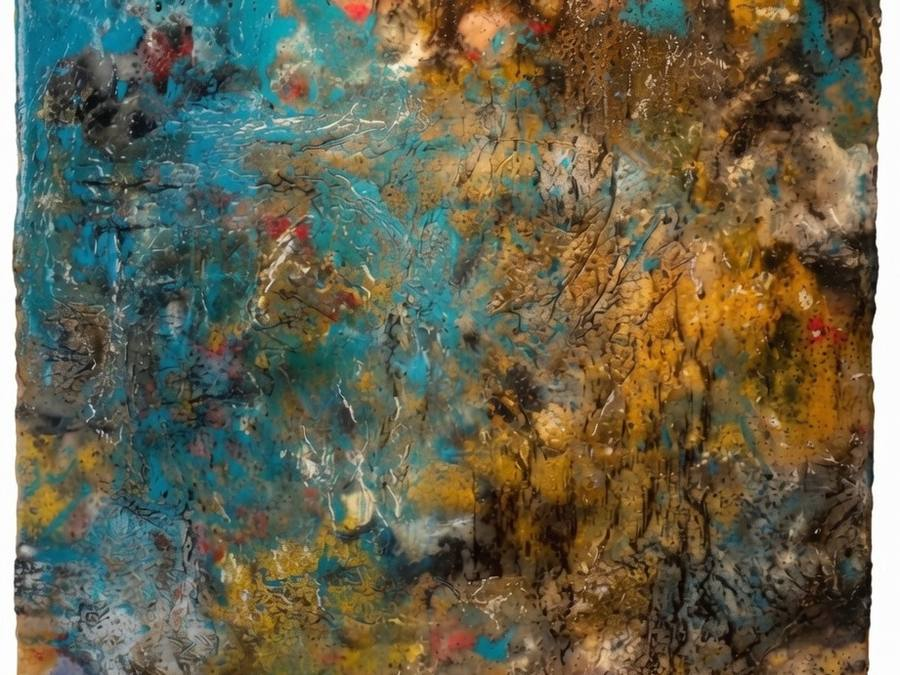
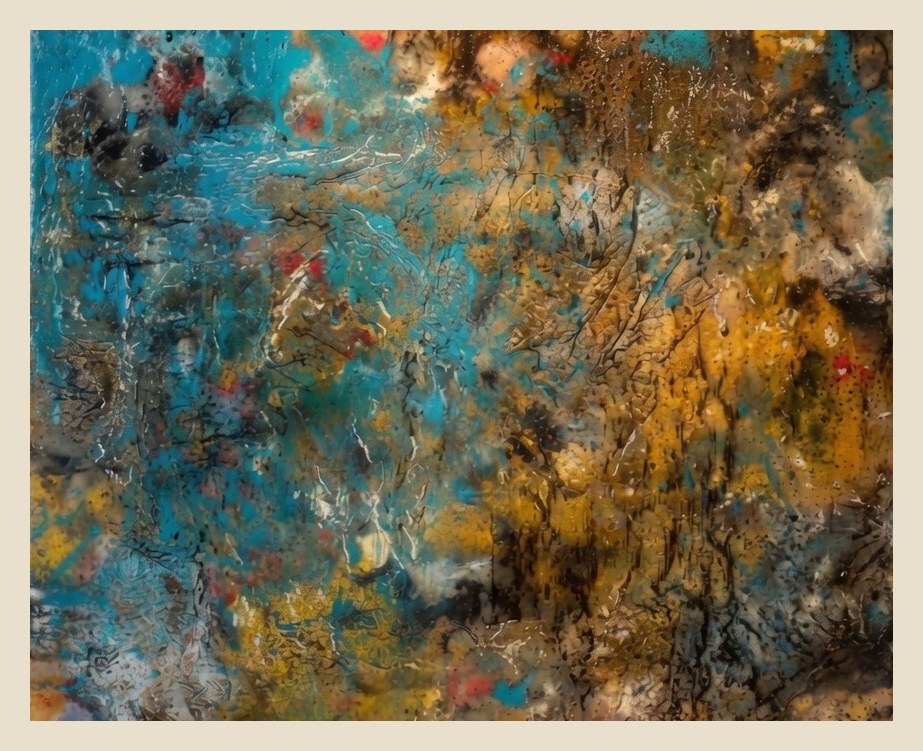
Add files via upload

diff --git a/paintings.html b/paintings.html
@@ -76,6 +76,13 @@ h1.page-title span{color:var(--red)}
 .paint-title{position:relative}
 .share-btn{font-family:var(--vt);letter-spacing:.08em;background:none;border:1px solid var(--muted);color:var(--muted);cursor:pointer;padding:.15rem .5rem;font-size:.85rem;margin-left:.5rem;vertical-align:middle;transition:background .15s,color .15s}
 .share-btn:hover{background:var(--ink);color:var(--paper);border-color:var(--ink)}
+.share-menu{display:inline-block;position:relative}
+.share-menu summary{list-style:none}
+.share-menu summary::-webkit-details-marker{display:none}
+.share-options{background:var(--paper);border:2px solid var(--ink);box-shadow:3px 3px 0 var(--ink);flex-direction:column;z-index:50;min-width:140px;padding:.4rem;display:flex;position:absolute;top:calc(100% + 6px);left:0}
+.share-options a{font-family:var(--elite);color:var(--ink);letter-spacing:.03em;border-bottom:1px dashed #1c181026;padding:.4rem .5rem;font-size:.78rem;transition:color .15s;display:block}
+.share-options a:last-child{border-bottom:none}
+.share-options a:hover{color:var(--red)}
 .buy-block{border-top:1px dashed #1c181040;padding-top:1rem}
 .buy-row{justify-content:space-between;align-items:center;gap:.75rem;display:flex;margin-bottom:.6rem}
 .buy-row:last-child{margin-bottom:0}
@@ -145,7 +152,7 @@ footer{background:var(--ink);color:var(--paper);border-top:4px solid var(--red);
   </div>
   <div class="paint-body">
     <div class="paint-title">Quiet Circuitry</div>
-    <button class="share-btn" onclick="sharePainting('1','Quiet Circuitry')" aria-label="Share Quiet Circuitry">Share &#8599;</button>
+    <details class="share-menu"><summary class="share-btn">Share &#8599;</summary><div class="share-options"><a href="https://twitter.com/intent/tweet?text=Quiet%20Circuitry%20-%20encaustic%20wax%20%26%20mixed%20media%20by%20Sundara%20Heart&url=https%3A//sundaraheart.com/paintings.html%23painting-1" target="_blank" rel="noopener">X / Twitter</a><a href="https://www.facebook.com/sharer/sharer.php?u=https%3A//sundaraheart.com/paintings.html%23painting-1" target="_blank" rel="noopener">Facebook</a><a href="https://pinterest.com/pin/create/button/?url=https%3A//sundaraheart.com/paintings.html%23painting-1&media=https%3A//sundaraheart.com/quiet-circuitry.jpg&description=Quiet%20Circuitry%20-%20encaustic%20wax%20%26%20mixed%20media%20by%20Sundara%20Heart" target="_blank" rel="noopener">Pinterest</a><a href="mailto:?subject=Quiet%20Circuitry%20-%20encaustic%20wax%20%26%20mixed%20media%20by%20Sundara%20Heart&body=Quiet%20Circuitry%20-%20encaustic%20wax%20%26%20mixed%20media%20by%20Sundara%20Heart%20https%3A//sundaraheart.com/paintings.html%23painting-1">Email</a></div></details>
     <div class="paint-meta">Encaustic Wax &amp; Mixed Media on Wood · [WxH]"</div>
     <p class="paint-desc">[One or two lines on this piece - what it's made of, what it's about, where it came from.]</p>
     <div class="buy-block">
@@ -175,7 +182,7 @@ footer{background:var(--ink);color:var(--paper);border-top:4px solid var(--red);
   </div>
   <div class="paint-body">
     <div class="paint-title">Ember Archive</div>
-    <button class="share-btn" onclick="sharePainting('2','Ember Archive')" aria-label="Share Ember Archive">Share &#8599;</button>
+    <details class="share-menu"><summary class="share-btn">Share &#8599;</summary><div class="share-options"><a href="https://twitter.com/intent/tweet?text=Ember%20Archive%20-%20encaustic%20wax%20%26%20mixed%20media%20by%20Sundara%20Heart&url=https%3A//sundaraheart.com/paintings.html%23painting-2" target="_blank" rel="noopener">X / Twitter</a><a href="https://www.facebook.com/sharer/sharer.php?u=https%3A//sundaraheart.com/paintings.html%23painting-2" target="_blank" rel="noopener">Facebook</a><a href="https://pinterest.com/pin/create/button/?url=https%3A//sundaraheart.com/paintings.html%23painting-2&media=https%3A//sundaraheart.com/ember-archive.jpg&description=Ember%20Archive%20-%20encaustic%20wax%20%26%20mixed%20media%20by%20Sundara%20Heart" target="_blank" rel="noopener">Pinterest</a><a href="mailto:?subject=Ember%20Archive%20-%20encaustic%20wax%20%26%20mixed%20media%20by%20Sundara%20Heart&body=Ember%20Archive%20-%20encaustic%20wax%20%26%20mixed%20media%20by%20Sundara%20Heart%20https%3A//sundaraheart.com/paintings.html%23painting-2">Email</a></div></details>
     <div class="paint-meta">Encaustic Wax &amp; Mixed Media on Wood Panel · 12" x 9"</div>
     <p class="paint-desc">[One or two lines on this piece.]</p>
     <div class="buy-block">
@@ -195,7 +202,7 @@ footer{background:var(--ink);color:var(--paper);border-top:4px solid var(--red);
   </div>
   <div class="paint-body">
     <div class="paint-title">Reliquary</div>
-    <button class="share-btn" onclick="sharePainting('3','Reliquary')" aria-label="Share Reliquary">Share &#8599;</button>
+    <details class="share-menu"><summary class="share-btn">Share &#8599;</summary><div class="share-options"><a href="https://twitter.com/intent/tweet?text=Reliquary%20-%20encaustic%20wax%20%26%20mixed%20media%20by%20Sundara%20Heart&url=https%3A//sundaraheart.com/paintings.html%23painting-3" target="_blank" rel="noopener">X / Twitter</a><a href="https://www.facebook.com/sharer/sharer.php?u=https%3A//sundaraheart.com/paintings.html%23painting-3" target="_blank" rel="noopener">Facebook</a><a href="https://pinterest.com/pin/create/button/?url=https%3A//sundaraheart.com/paintings.html%23painting-3&media=https%3A//sundaraheart.com/reliquary.jpg&description=Reliquary%20-%20encaustic%20wax%20%26%20mixed%20media%20by%20Sundara%20Heart" target="_blank" rel="noopener">Pinterest</a><a href="mailto:?subject=Reliquary%20-%20encaustic%20wax%20%26%20mixed%20media%20by%20Sundara%20Heart&body=Reliquary%20-%20encaustic%20wax%20%26%20mixed%20media%20by%20Sundara%20Heart%20https%3A//sundaraheart.com/paintings.html%23painting-3">Email</a></div></details>
     <div class="paint-meta">Encaustic Wax &amp; Mixed Media on Birch Panel · 6½" x 6½"</div>
     <p class="paint-desc">[One or two lines on this piece.]</p>
     <div class="buy-block">
@@ -225,7 +232,7 @@ footer{background:var(--ink);color:var(--paper);border-top:4px solid var(--red);
   </div>
   <div class="paint-body">
     <div class="paint-title">Fault Line</div>
-    <button class="share-btn" onclick="sharePainting('4','Fault Line')" aria-label="Share Fault Line">Share &#8599;</button>
+    <details class="share-menu"><summary class="share-btn">Share &#8599;</summary><div class="share-options"><a href="https://twitter.com/intent/tweet?text=Fault%20Line%20-%20encaustic%20wax%20%26%20mixed%20media%20by%20Sundara%20Heart&url=https%3A//sundaraheart.com/paintings.html%23painting-4" target="_blank" rel="noopener">X / Twitter</a><a href="https://www.facebook.com/sharer/sharer.php?u=https%3A//sundaraheart.com/paintings.html%23painting-4" target="_blank" rel="noopener">Facebook</a><a href="https://pinterest.com/pin/create/button/?url=https%3A//sundaraheart.com/paintings.html%23painting-4&media=https%3A//sundaraheart.com/fault-line.jpg&description=Fault%20Line%20-%20encaustic%20wax%20%26%20mixed%20media%20by%20Sundara%20Heart" target="_blank" rel="noopener">Pinterest</a><a href="mailto:?subject=Fault%20Line%20-%20encaustic%20wax%20%26%20mixed%20media%20by%20Sundara%20Heart&body=Fault%20Line%20-%20encaustic%20wax%20%26%20mixed%20media%20by%20Sundara%20Heart%20https%3A//sundaraheart.com/paintings.html%23painting-4">Email</a></div></details>
     <div class="paint-meta">Encaustic Wax &amp; Mixed Media on Birch Panel · 12⅝" x 8⅝"</div>
     <p class="paint-desc">[One or two lines on this piece.]</p>
     <div class="buy-block">
@@ -255,7 +262,7 @@ footer{background:var(--ink);color:var(--paper);border-top:4px solid var(--red);
   </div>
   <div class="paint-body">
     <div class="paint-title">High Desert Tide</div>
-    <button class="share-btn" onclick="sharePainting('5','High Desert Tide')" aria-label="Share High Desert Tide">Share &#8599;</button>
+    <details class="share-menu"><summary class="share-btn">Share &#8599;</summary><div class="share-options"><a href="https://twitter.com/intent/tweet?text=High%20Desert%20Tide%20-%20encaustic%20wax%20%26%20mixed%20media%20by%20Sundara%20Heart&url=https%3A//sundaraheart.com/paintings.html%23painting-5" target="_blank" rel="noopener">X / Twitter</a><a href="https://www.facebook.com/sharer/sharer.php?u=https%3A//sundaraheart.com/paintings.html%23painting-5" target="_blank" rel="noopener">Facebook</a><a href="https://pinterest.com/pin/create/button/?url=https%3A//sundaraheart.com/paintings.html%23painting-5&media=https%3A//sundaraheart.com/high-desert-tide.jpg&description=High%20Desert%20Tide%20-%20encaustic%20wax%20%26%20mixed%20media%20by%20Sundara%20Heart" target="_blank" rel="noopener">Pinterest</a><a href="mailto:?subject=High%20Desert%20Tide%20-%20encaustic%20wax%20%26%20mixed%20media%20by%20Sundara%20Heart&body=High%20Desert%20Tide%20-%20encaustic%20wax%20%26%20mixed%20media%20by%20Sundara%20Heart%20https%3A//sundaraheart.com/paintings.html%23painting-5">Email</a></div></details>
     <div class="paint-meta">Encaustic Wax &amp; Mixed Media on Canvas Board · 20" x 18"H</div>
     <p class="paint-desc">[One or two lines on this piece.]</p>
     <div class="buy-block">
@@ -275,7 +282,7 @@ footer{background:var(--ink);color:var(--paper);border-top:4px solid var(--red);
   </div>
   <div class="paint-body">
     <div class="paint-title">Wax Bloom</div>
-    <button class="share-btn" onclick="sharePainting('6','Wax Bloom')" aria-label="Share Wax Bloom">Share &#8599;</button>
+    <details class="share-menu"><summary class="share-btn">Share &#8599;</summary><div class="share-options"><a href="https://twitter.com/intent/tweet?text=Wax%20Bloom%20-%20encaustic%20wax%20%26%20mixed%20media%20by%20Sundara%20Heart&url=https%3A//sundaraheart.com/paintings.html%23painting-6" target="_blank" rel="noopener">X / Twitter</a><a href="https://www.facebook.com/sharer/sharer.php?u=https%3A//sundaraheart.com/paintings.html%23painting-6" target="_blank" rel="noopener">Facebook</a><a href="https://pinterest.com/pin/create/button/?url=https%3A//sundaraheart.com/paintings.html%23painting-6&media=https%3A//sundaraheart.com/wax-bloom.jpg&description=Wax%20Bloom%20-%20encaustic%20wax%20%26%20mixed%20media%20by%20Sundara%20Heart" target="_blank" rel="noopener">Pinterest</a><a href="mailto:?subject=Wax%20Bloom%20-%20encaustic%20wax%20%26%20mixed%20media%20by%20Sundara%20Heart&body=Wax%20Bloom%20-%20encaustic%20wax%20%26%20mixed%20media%20by%20Sundara%20Heart%20https%3A//sundaraheart.com/paintings.html%23painting-6">Email</a></div></details>
     <div class="paint-meta">Encaustic Wax &amp; Mixed Media on Canvas Board · 20" x 17"H</div>
     <p class="paint-desc">[One or two lines on this piece - what it's made of, what it's about, where it came from.]</p>
     <div class="buy-block">
@@ -315,24 +322,5 @@ hbg.addEventListener('click', () => { hbg.classList.toggle('open'); mobMenu.clas
 function closeMob(){ hbg.classList.remove('open'); mobMenu.classList.remove('open'); }
 </script>
 
-<script>
-function sharePainting(id, title) {
-  var url = window.location.href.split('#')[0] + '#painting-' + id;
-  var shareData = { title: title + ' \u2014 Sundara Heart', text: 'Check out "' + title + '" by Sundara Heart', url: url };
-  if (navigator.share) {
-    navigator.share(shareData).catch(function(){});
-    return;
-  }
-  if (navigator.clipboard && navigator.clipboard.writeText) {
-    navigator.clipboard.writeText(url).then(function() {
-      alert('Link copied: ' + url);
-    }).catch(function() {
-      prompt('Copy this link:', url);
-    });
-  } else {
-    prompt('Copy this link:', url);
-  }
-}
-</script>
 </body>
 </html>